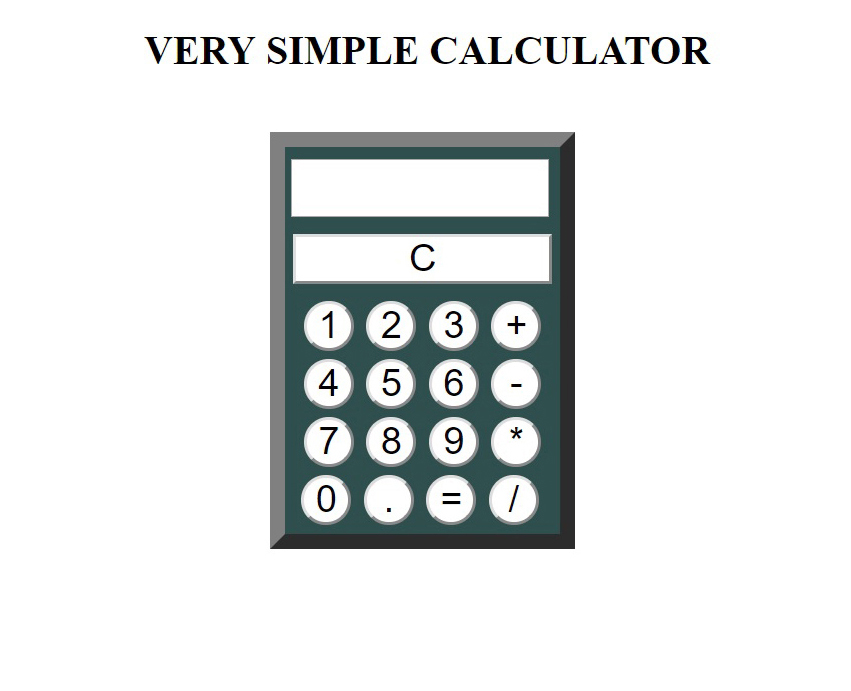
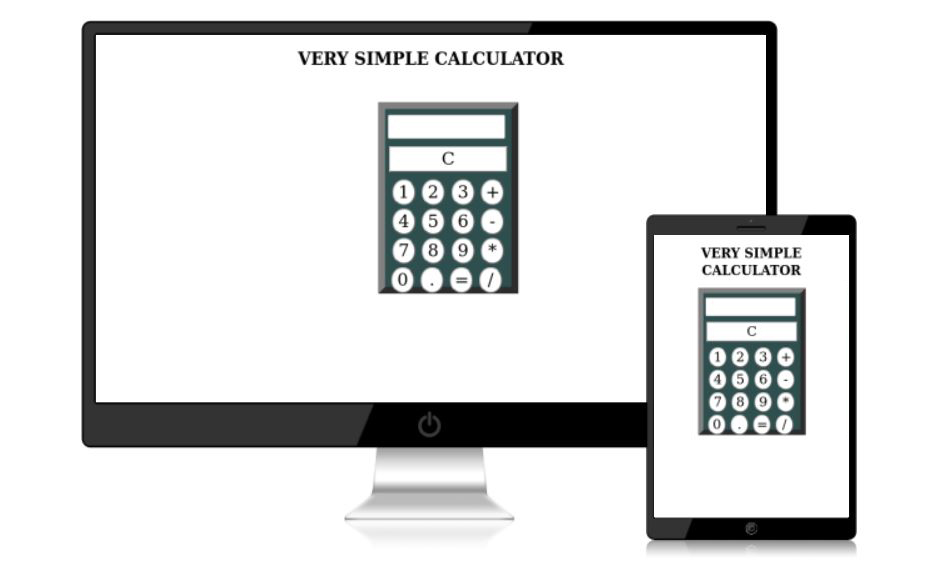
thumbernail portfolio updates

Changed region(s): [[0.0611, 0.0301, 0.9471, 0.9929]]

diff --git a/index.html b/index.html
@@ -118,7 +118,7 @@
 
     <section id="skills" class="container-fluid">
         <h2 class="header2"><span class="polish">Moje <span class="green">umiejętności</span></span><span class="english">My <span class="green">skills</span></span></h2>
-        <p id="skillsHeader"><span class="polish">W tworzeniu stron korzystam z HTML5, CSS3 i JavaScript'u lub jQuery. Pracuję przy wykorzystaniu Brackets'a. Zawsze staram się aby mój kod był jak najbardziej optymalny i czytelny. Nie obcy również jest dla mnie Wordpress, Photoshop, Git, Sass czy Gulp. Poniżej możesz zobaczyć moje projekty wykonane podczas szkolenia jak i CV. Jeśli zainteresowała Cię moja osoba to zostaw mi wiadomość.</span><span class="english">I use HTML5, CSS3 and JavaScript or jQuery to create pages. I work with Brackets. I always try to make my code as optimal and readable as possible. I'm also familiar with Wordpress, Photoshop, Git, Sass or Gulp. Below you can see my projects done during training and CV. If you are interested in me, leave me a message.</span></p>
+        <p id="skillsHeader"><span class="polish">W tworzeniu stron korzystam z HTML5, CSS3 i JavaScript'u lub jQuery. Pracuję przy wykorzystaniu Brackets'a. Zawsze staram się aby mój kod był jak najbardziej optymalny i czytelny. Nie obcy również jest dla mnie Wordpress, Photoshop, Git, Sass czy Gulp. Poniżej możesz zobaczyć moje portfolio, które sukcesywnie uzupełniam. Jeśli zainteresowała Cię moja osoba to zostaw mi wiadomość.</span><span class="english">I use HTML5, CSS3 and JavaScript or jQuery to create pages. I work with Brackets. I always try to make my code as optimal and readable as possible. I'm also familiar with Wordpress, Photoshop, Git, Sass or Gulp. Below you can see my portfolio, which I gradually supplement with new projects. If you are interested in me, leave me a message.</span></p>
         <div id="skills-icons" class="row">
             <figure class="skills-icons-item col-md-3">
                 <img src="icons/html5.png" alt="Ikona HTML5">

diff --git a/css/styles.css b/css/styles.css
@@ -608,33 +608,39 @@ a.clickableLink {
 
 div#portfolio-item-1 {
   background-image: url("../img/portfolio1.jpg");
-  background-size: cover;
-  background-position: center; }
+  background-size: contain;
+  background-position: center;
+  background-repeat: no-repeat; }
 
 div#portfolio-item-2 {
   background-image: url("../img/portfolio2.jpg");
-  background-size: cover;
-  background-position: center; }
+  background-size: contain;
+  background-position: center;
+  background-repeat: no-repeat; }
 
 div#portfolio-item-3 {
   background-image: url("../img/www-award-gda-pl.jpg");
-  background-size: cover;
-  background-position: center; }
+  background-size: contain;
+  background-position: center;
+  background-repeat: no-repeat; }
 
 div#portfolio-item-4 {
   background-image: url("../img/calculator.jpg");
-  background-size: cover;
-  background-position: center; }
+  background-size: contain;
+  background-position: center;
+  background-repeat: no-repeat; }
 
 div#portfolio-item-5 {
   background-image: url("../img/inwentaryzacja.jpg");
-  background-size: cover;
-  background-position: center; }
+  background-size: contain;
+  background-position: center;
+  background-repeat: no-repeat; }
 
 div#portfolio-item-6 {
   background-image: url("../img/www-dworakowska-cba-pl.jpg");
-  background-size: cover;
-  background-position: center; }
+  background-size: contain;
+  background-position: center;
+  background-repeat: no-repeat; }
 
 /* Contact section styling start */
 section#contact {

diff --git a/scss/_portfolio.scss b/scss/_portfolio.scss
@@ -86,31 +86,37 @@
 
     div#portfolio-item-1 {
         background-image: url('../img/portfolio1.jpg');
-        background-size: cover;
+        background-size: contain;
         background-position: center;
+        background-repeat: no-repeat;
     }
     div#portfolio-item-2 {
         background-image: url('../img/portfolio2.jpg');
-        background-size: cover;
+        background-size: contain;
         background-position: center;
+        background-repeat: no-repeat;
     }
     div#portfolio-item-3 {
         background-image: url('../img/www-award-gda-pl.jpg');
-        background-size: cover;
+        background-size: contain;
         background-position: center;
+        background-repeat: no-repeat;
     }
     div#portfolio-item-4 {
         background-image: url('../img/calculator.jpg');
-        background-size: cover;
+        background-size: contain;
         background-position: center;
+        background-repeat: no-repeat;
     }
     div#portfolio-item-5 {
         background-image: url('../img/inwentaryzacja.jpg');
-        background-size: cover;
+        background-size: contain;
         background-position: center;
+        background-repeat: no-repeat;
     }
     div#portfolio-item-6 {
         background-image: url('../img/www-dworakowska-cba-pl.jpg');
-        background-size: cover;
+        background-size: contain;
         background-position: center;
+        background-repeat: no-repeat;
     }
